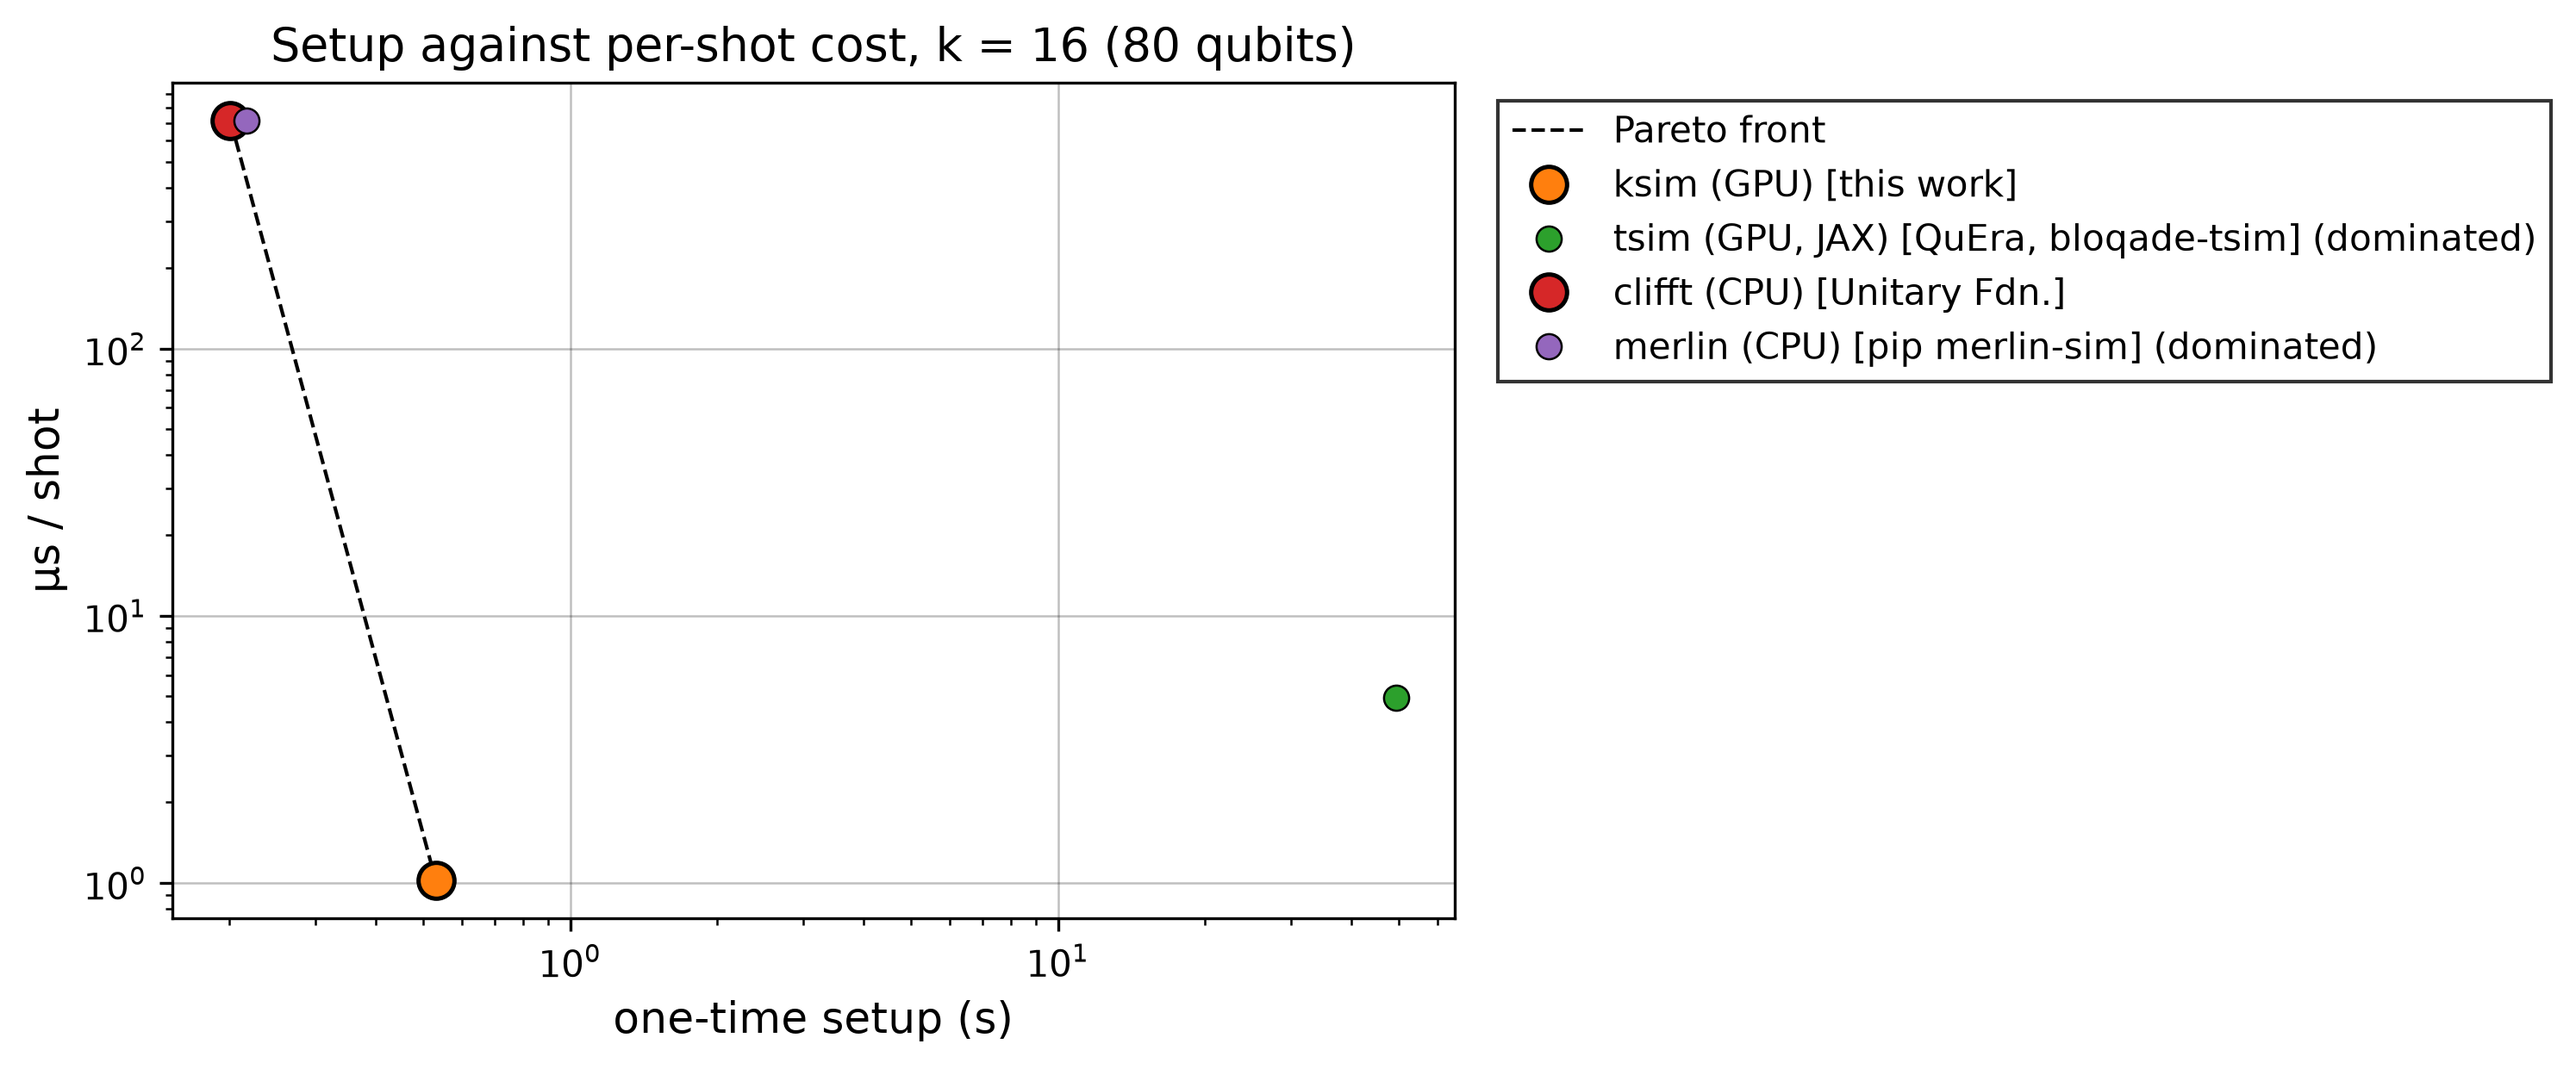
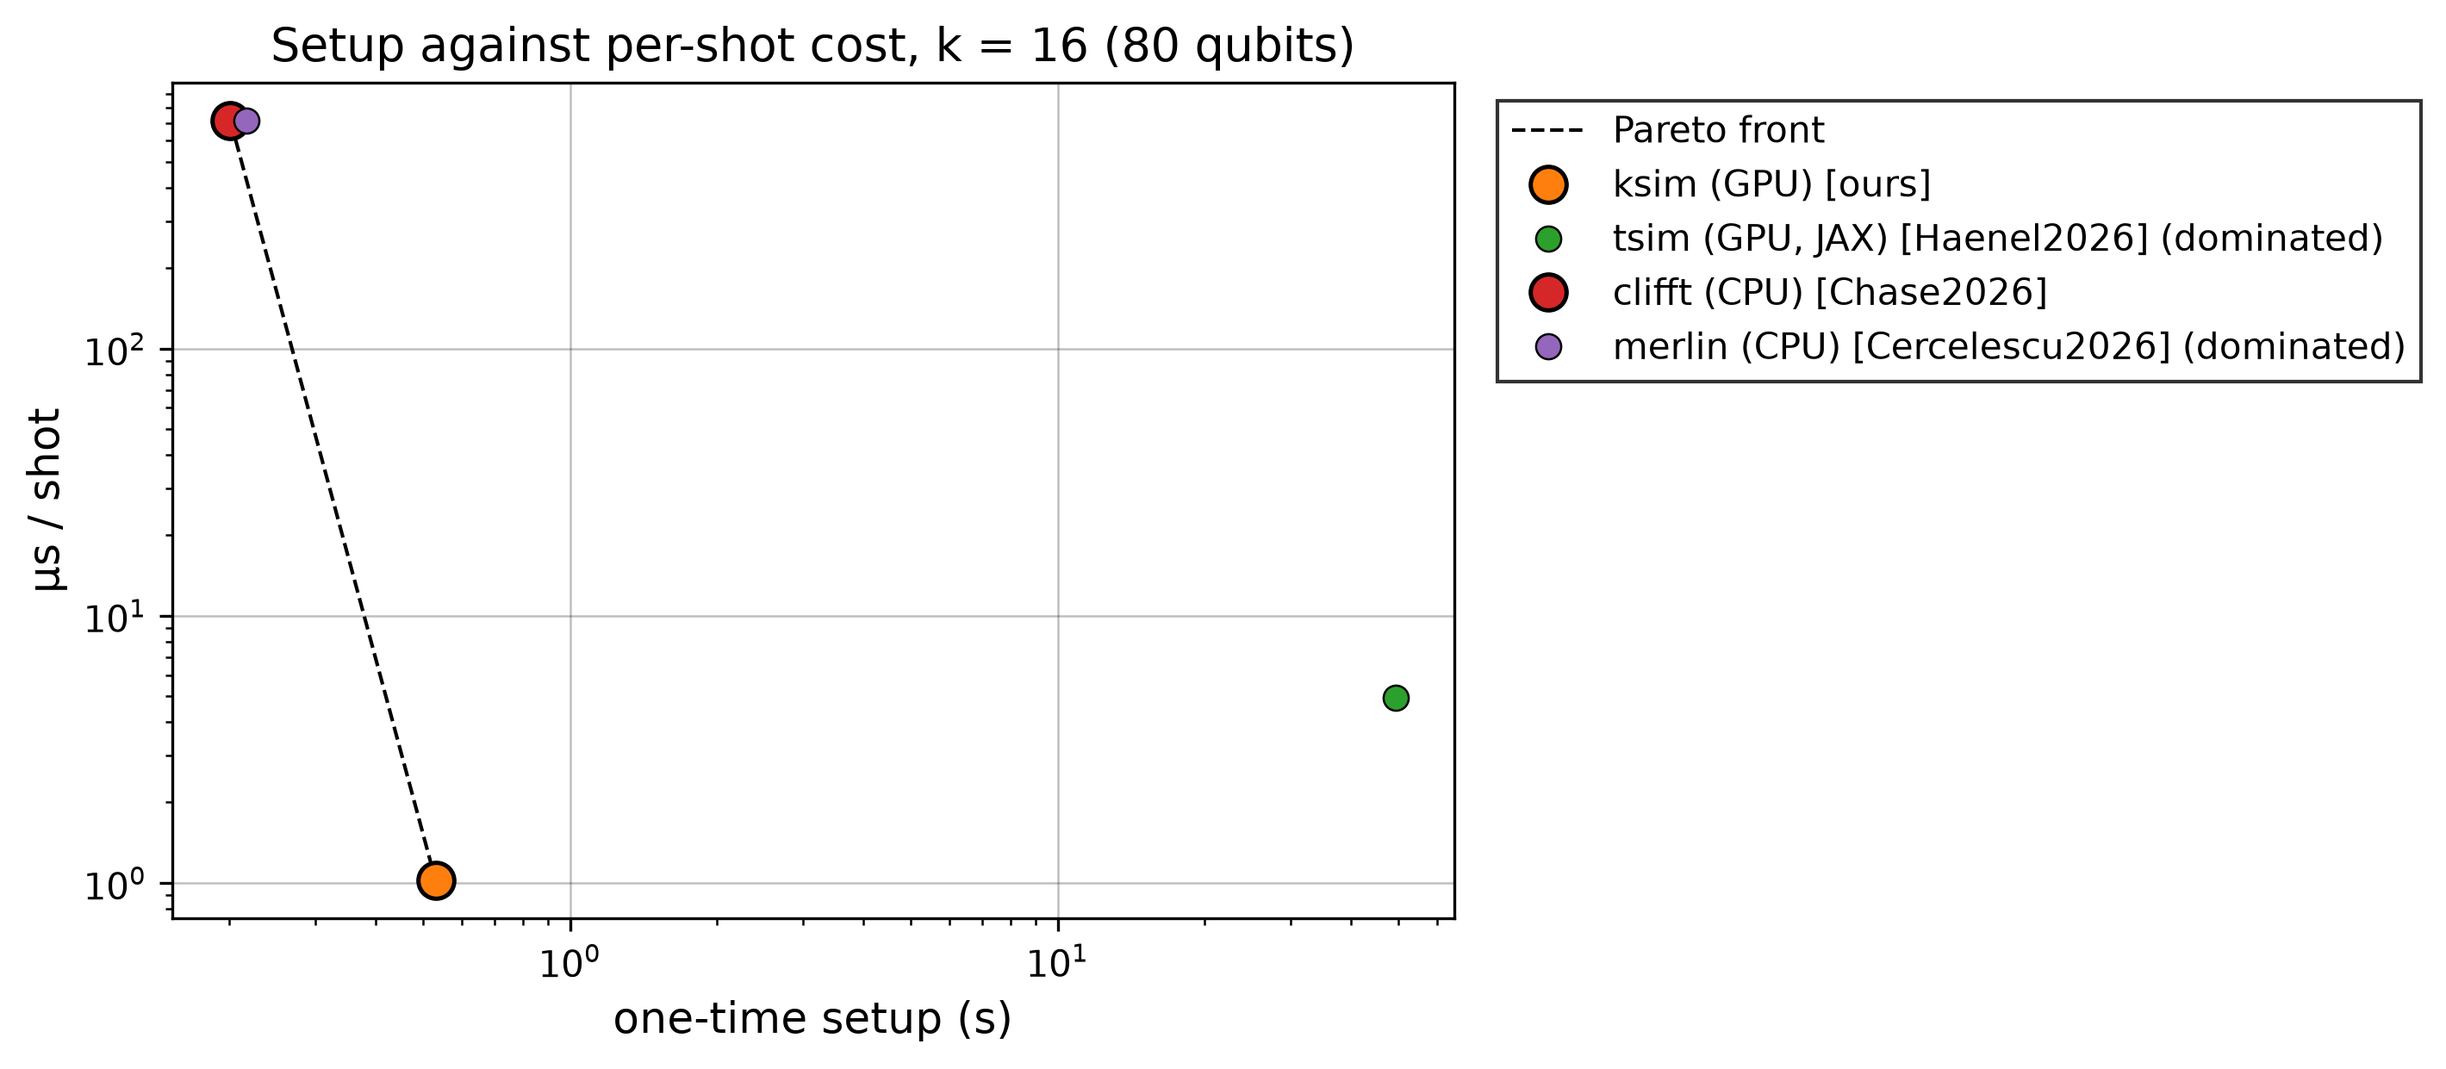
plot_scaling: author-year citation keys in the legends, ksim as [ours]

diff --git a/benchmarks/plot_scaling.py b/benchmarks/plot_scaling.py
@@ -44,11 +44,19 @@ import matplotlib.pyplot as plt
 
 COLOURS = {"xtim": "#1f77b4", "ksim": "#ff7f0e", "tsim": "#2ca02c",
            "clifft": "#d62728", "merlin": "#9467bd"}
-LABELS = {"xtim": "xtim (CPU, 1 core) [arXiv:2512.23799]",
-          "ksim": "ksim (GPU) [this work]",
-          "tsim": "tsim (GPU, JAX) [QuEra, bloqade-tsim]",
-          "clifft": "clifft (CPU) [Unitary Fdn.]",
-          "merlin": "merlin (CPU) [pip merlin-sim]"}
+LABELS = {"xtim": "xtim (CPU, 1 core) [Surti2025]",
+          "ksim": "ksim (GPU) [ours]",
+          "tsim": "tsim (GPU, JAX) [Haenel2026]",
+          "clifft": "clifft (CPU) [Chase2026]",
+          "merlin": "merlin (CPU) [Cercelescu2026]"}
+# Surti2025       arXiv:2512.23799   Surti, Daguerre, Kim, "Efficient simulation of logical
+#                                    magic state preparation protocols"
+# Haenel2026      arXiv:2604.01059   Haenel, Luo, Zhao, "Tsim: Fast Universal Simulator for
+#                                    Quantum Error Correction"
+# Chase2026       arXiv:2604.27058   Chase, Labib, "Clifft: Fast Exact Simulation of
+#                                    Near-Clifford Quantum Circuits"
+# Cercelescu2026  arXiv:2610.06811   Cercelescu, Koch, Pesah, "Polynomial-time simulation of
+#                                    non-Clifford quantum error correction"
 SHOT_COUNTS = ((10**6, "-"), (10**8, ":"))
 WALL_SHOTS = 10**6
 POINT = dict(marker="o", ms=6, mec="black", mew=0.6, lw=1.5)

diff --git a/docs/benchmarks.md b/docs/benchmarks.md
@@ -153,6 +153,8 @@ so the circuit carries k independent magic states (`benchmarks/bench_scaling.py`
   timed draws; tsim is timed at one fixed batch shape (4 096) so no XLA recompile lands in the timing.
 - **CPU (Xeon Gold 6548Y+):** xtim (single-threaded), clifft and merlin.
 
+Legend keys: [Surti2025] = xtim, [arXiv:2512.23799](https://arxiv.org/abs/2512.23799); [Haenel2026] = tsim, [arXiv:2604.01059](https://arxiv.org/abs/2604.01059); [Chase2026] = clifft, [arXiv:2604.27058](https://arxiv.org/abs/2604.27058); [Cercelescu2026] = merlin, [arXiv:2610.06811](https://arxiv.org/abs/2610.06811).
+
 Each point draws 100 000 shots. A build killed after 600 s drops that engine from every larger k.
 Each cell is setup / µs per shot:
 
